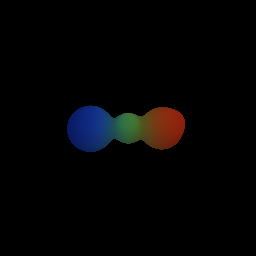
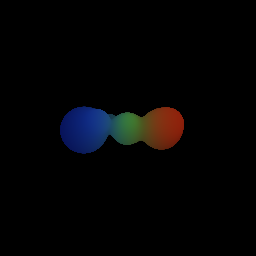
pref: lossや分割の処理を改善

diff --git a/src/bin/train.rs b/src/bin/train.rs
@@ -27,7 +27,7 @@ fn main() {
     // --------------------------------------------------------
     // 設定: 球を100個に増やす
     // --------------------------------------------------------
-    const BATCH_SIZE: usize = 8192; // VRAMに合わせて調整 (2048~8192くらい)
+    const BATCH_SIZE: usize = 16384; // VRAMに合わせて調整 (2048~8192くらい)
 
     let width = 256;
     let height = 256;
@@ -42,7 +42,7 @@ fn main() {
         50.0,
         &device,
     );
-    let (ro2, rd2) = create_camera_rays::<MyBackend>(
+    let (_ro2, _rd2) = create_camera_rays::<MyBackend>(
         width,
         height,
         [2.5, 0.0, 0.0],
@@ -50,7 +50,7 @@ fn main() {
         50.0,
         &device,
     );
-    let (ro3, rd3) = create_camera_rays::<MyBackend>(
+    let (_ro3, _rd3) = create_camera_rays::<MyBackend>(
         width,
         height,
         [0.0, 2.5, -0.0001],
@@ -59,10 +59,11 @@ fn main() {
         &device,
     );
 
+    const JSON_PATH: &str = "data/cameras.json";
+
     // --- JSONからカメラと画像を動的にロード ---
     println!("Loading camera configurations...");
-    let config_str =
-        std::fs::read_to_string("data/cameras.json").expect("Failed to read cameras.json");
+    let config_str = std::fs::read_to_string(JSON_PATH).expect("Failed to read cameras.json");
     let cameras: Vec<CameraConfig> =
         serde_json::from_str(&config_str).expect("Failed to parse JSON");
 
@@ -97,23 +98,37 @@ fn main() {
     );
 
     // ==========================================
-    // 1. 初期設定 (最初は5個からスタート)
+    // 1. 初期設定 (1個からスタート)
     // ==========================================
-    let mut current_n = 5;
+    let mut current_n = 7;
     let mut centers_vec = vec![0.0; current_n * 3];
     let mut colors_vec = vec![0.0; current_n * 3]; // Logit 0.0 (グレー)
     let mut radii_vec = vec![0.0; current_n]; // Softplus(-2.0) ≒ 0.12
     let mut light_dir_vec: Vec<f32> = vec![0.0, 1.0, 0.0];
     let mut ambient_intensity_vec: Vec<f32> = vec![-1.4]; // sigmoid(-1.4) ≒ 0.2
 
-    // 初期位置を少しだけ散らす
-    for i in 0..current_n {
-        centers_vec[i * 3 + 0] = (i as f32 * 0.1) - 0.2;
+    // 6方向 + 中心に球を配置
+    let directions = [
+        [1.0, 0.0, 0.0],
+        [-1.0, 0.0, 0.0],
+        [0.0, 1.0, 0.0],
+        [0.0, -1.0, 0.0],
+        [0.0, 0.0, 1.0],
+        [0.0, 0.0, -1.0],
+    ];
+    for i in 0..6 {
+        centers_vec[i * 3] = directions[i][0] * 0.1;
+        centers_vec[i * 3 + 1] = directions[i][1] * 0.1;
+        centers_vec[i * 3 + 2] = directions[i][2] * 0.1;
     }
+    centers_vec[6 * 3] = 0.0;
+    centers_vec[6 * 3 + 1] = 0.0;
+    centers_vec[6 * 3 + 2] = 0.0;
 
     const STAGES: usize = 5; // 世代数 (例: 5世代)
-    const STEPS_PER_STAGE: usize = 600; // 1世代あたりの学習回数
+    const STEPS_PER_STAGE: usize = 700; // 1世代あたりの学習回数
     const TOTAL_STEPS: f32 = (STAGES * STEPS_PER_STAGE) as f32;
+    const MAX_SMOOTH: f32 = 32.0;
 
     println!("🚀 Start Multi-Stage Optimization...");
 
@@ -156,9 +171,9 @@ fn main() {
             let progress = global_step / TOTAL_STEPS;
 
             // [ここで先ほどの「サンプリング比率のアニーリング」と「kのアニーリング」を行う]
-            let smooth_k = 5.0 + (32.0 - 5.0) * progress;
+            let smooth_k = 5.0 + (MAX_SMOOTH - 5.0) * progress;
             // --- サンプリング比率のアニーリング ---
-            let uniform_ratio = 0.8 - (0.6 * progress); // 0.8 -> 0.2 に減少
+            let uniform_ratio = 0.8 - (0.4 * progress); // 0.8 -> 0.4 に減少
 
             // --- バッチサンプリング ---
             let (batch_ro, batch_rd, batch_target) =
@@ -169,7 +184,7 @@ fn main() {
             // ==========================================
             // --- Loss計算 ---
             // ==========================================
-            let loss = compute_loss(&model, output, batch_target);
+            let loss = compute_loss(&model, output, batch_target, progress);
 
             let grads = loss.backward();
             let grads = GradientsParams::from_grads(grads, &model);
@@ -257,22 +272,22 @@ fn main() {
                 height,
                 "steps/final_1.png",
             );
-            save_tiled_preview(
-                &model,
-                ro2.clone(),
-                rd2.clone(),
-                width,
-                height,
-                "steps/final_2.png",
-            );
-            save_tiled_preview(
-                &model,
-                ro3.clone(),
-                rd3.clone(),
-                width,
-                height,
-                "steps/final_3.png",
-            );
+            // save_tiled_preview(
+            //     &model,
+            //     ro2.clone(),
+            //     rd2.clone(),
+            //     width,
+            //     height,
+            //     "steps/final_2.png",
+            // );
+            // save_tiled_preview(
+            //     &model,
+            //     ro3.clone(),
+            //     rd3.clone(),
+            //     width,
+            //     height,
+            //     "steps/final_3.png",
+            // );
 
             // 全て完了したのでループを抜ける
             break;
@@ -338,7 +353,9 @@ fn save_tiled_preview<B: Backend>(
         // 推論 (勾配不要なので detach してもいいが、Model::forward が tensor を返すので
         // 返り値を detach するのが簡単)
         let out = model.forward(batch_ro, batch_rd, 32.0).detach();
-        outputs.push(out);
+        let current_chunk_size = out.dims()[0];
+        let out_color = out.slice([0..current_chunk_size, 0..3]);
+        outputs.push(out_color);
         start += chunk_size;
     }
 

diff --git a/src/training.rs b/src/training.rs
@@ -1,12 +1,15 @@
 use burn::prelude::*;
 use burn::tensor::activation;
 
+use rand::RngExt;
+
 use crate::model::scene::SceneModel;
 
 pub fn compute_loss<B: Backend>(
     model: &SceneModel<B>,
     output: Tensor<B, 2>,
     batch_target: Tensor<B, 2>,
+    progress: f32,
 ) -> Tensor<B, 1> {
     let device = output.device();
 
@@ -18,8 +21,18 @@ pub fn compute_loss<B: Backend>(
     let target_sum = batch_target.sum_dim(1);
     let target_mask = target_sum.greater_elem(0.01); // 物体領域の判定
 
-    // 物体領域は厳しく(L1 * 10)、背景は緩く(MSE)
-    let reconstruction_loss = mse_map.mask_where(target_mask, abs_diff * 10.0).mean();
+    // 背景の重み: progressに応じて 1.0 から 5.0 へ増加
+    let bg_weight = 1.0 + progress * 4.0;
+
+    // ピクセルごとの「重みマップ」を作成
+    // ベースを背景の重みにしておき、物体領域(target_mask)の場所だけ 10.0 で上書きする
+    let weight_map = Tensor::zeros_like(&abs_diff)
+        .add_scalar(bg_weight)
+        .mask_where(target_mask, Tensor::zeros_like(&abs_diff).add_scalar(10.0));
+
+    // 誤差に重みを掛けて平均をとる
+    let reconstruction_loss = (abs_diff * weight_map).mean();
+
     let mut loss = reconstruction_loss;
 
     // 2. 幾何学的制約 (ペナルティ項)
@@ -77,6 +90,7 @@ pub fn prune_and_split<B: Backend>(
     stage: usize,
     stages: usize,
 ) -> (Vec<f32>, Vec<f32>, Vec<f32>, usize) {
+    let mut rng = rand::rng();
     let current_n = model.centers.dims()[0];
     let out_centers: Vec<f32> = model
         .centers
@@ -150,7 +164,7 @@ pub fn prune_and_split<B: Backend>(
         // 1. 厳密な Pruning (ゴミの徹底排除)
         // ==========================================
         // [a] サイズ異常（デカすぎる影、または小さすぎるゴミ）
-        if r > 0.35 || r < 0.005 {
+        if r > 1.0 - stage as f32 * 0.04 || r < 0.005 {
             continue;
         }
 
@@ -169,24 +183,45 @@ pub fn prune_and_split<B: Backend>(
         // 2. 条件付き Splitting (必要なものだけ割る)
         // ==========================================
         if stage < stages - 1 {
-            if r > 0.05 && move_dist_sq < 0.05 * 0.05 {
+            // 色によるPruningは削除し、移動量とサイズで判断
+            let split_threshold = 0.25 * (0.65_f32).powi(stage as i32);
+            if r > split_threshold && move_dist_sq > 0.05 * 0.05 {
                 // 【分割】半径が大きい ＝ まだ大まかな領域しかカバーできていない
-                // -> 2つの小さな球に割って、ディテールを表現させる
-                let offset = 0.03; // 少しずらす
-                let new_r = raw_radius - 0.5;
 
-                // 1つ目
-                next_centers.extend_from_slice(&[cx + offset, cy, cz + offset]);
-                next_colors.extend_from_slice(&[raw_r, raw_g, raw_b]);
-                next_radii.push(new_r); // 半径を小さくリセット(softplusで約0.08)
+                // 1. ランダムな3D方向ベクトルを生成 (球面上のランダムサンプリング)
+                let z: f32 = rng.random_range(-1.0..1.0);
+                let theta: f32 = rng.random_range(0.0..std::f32::consts::TAU);
+                let r_xy = (1.0 - z * z).sqrt();
+                let dx = r_xy * theta.cos();
+                let dy = r_xy * theta.sin();
+                let dz = z;
 
-                // 2つ目（逆方向にずらす）
-                next_centers.extend_from_slice(&[cx - offset, cy, cz - offset]);
+                // 2. オフセット量は「現在の半径の半分」にする
+                let offset = r * 0.5;
+
+                // 3. 新しい半径を計算 (体積を半分にするため、元の半径の約0.8倍にする)
+                let target_r = (r * 0.8).max(0.01);
+                let new_raw_r = (target_r.exp() - 1.0).max(1e-6).ln();
+
+                // 1つ目 (ランダム方向にずらす)
+                next_centers.extend_from_slice(&[
+                    cx + dx * offset,
+                    cy + dy * offset,
+                    cz + dz * offset,
+                ]);
                 next_colors.extend_from_slice(&[raw_r, raw_g, raw_b]);
-                next_radii.push(new_r);
+                next_radii.push(new_raw_r);
+
+                // 2つ目 (逆方向にずらす)
+                next_centers.extend_from_slice(&[
+                    cx - dx * offset,
+                    cy - dy * offset,
+                    cz - dz * offset,
+                ]);
+                next_colors.extend_from_slice(&[raw_r, raw_g, raw_b]);
+                next_radii.push(new_raw_r);
             } else {
-                // 【維持】すでに十分小さい ＝ ディテールとして綺麗にフィットしている
-                // -> 無駄に割らずに、そのまま維持する
+                // 【維持】
                 next_centers.extend_from_slice(&[cx, cy, cz]);
                 next_colors.extend_from_slice(&[raw_r, raw_g, raw_b]);
                 next_radii.push(raw_radius);
